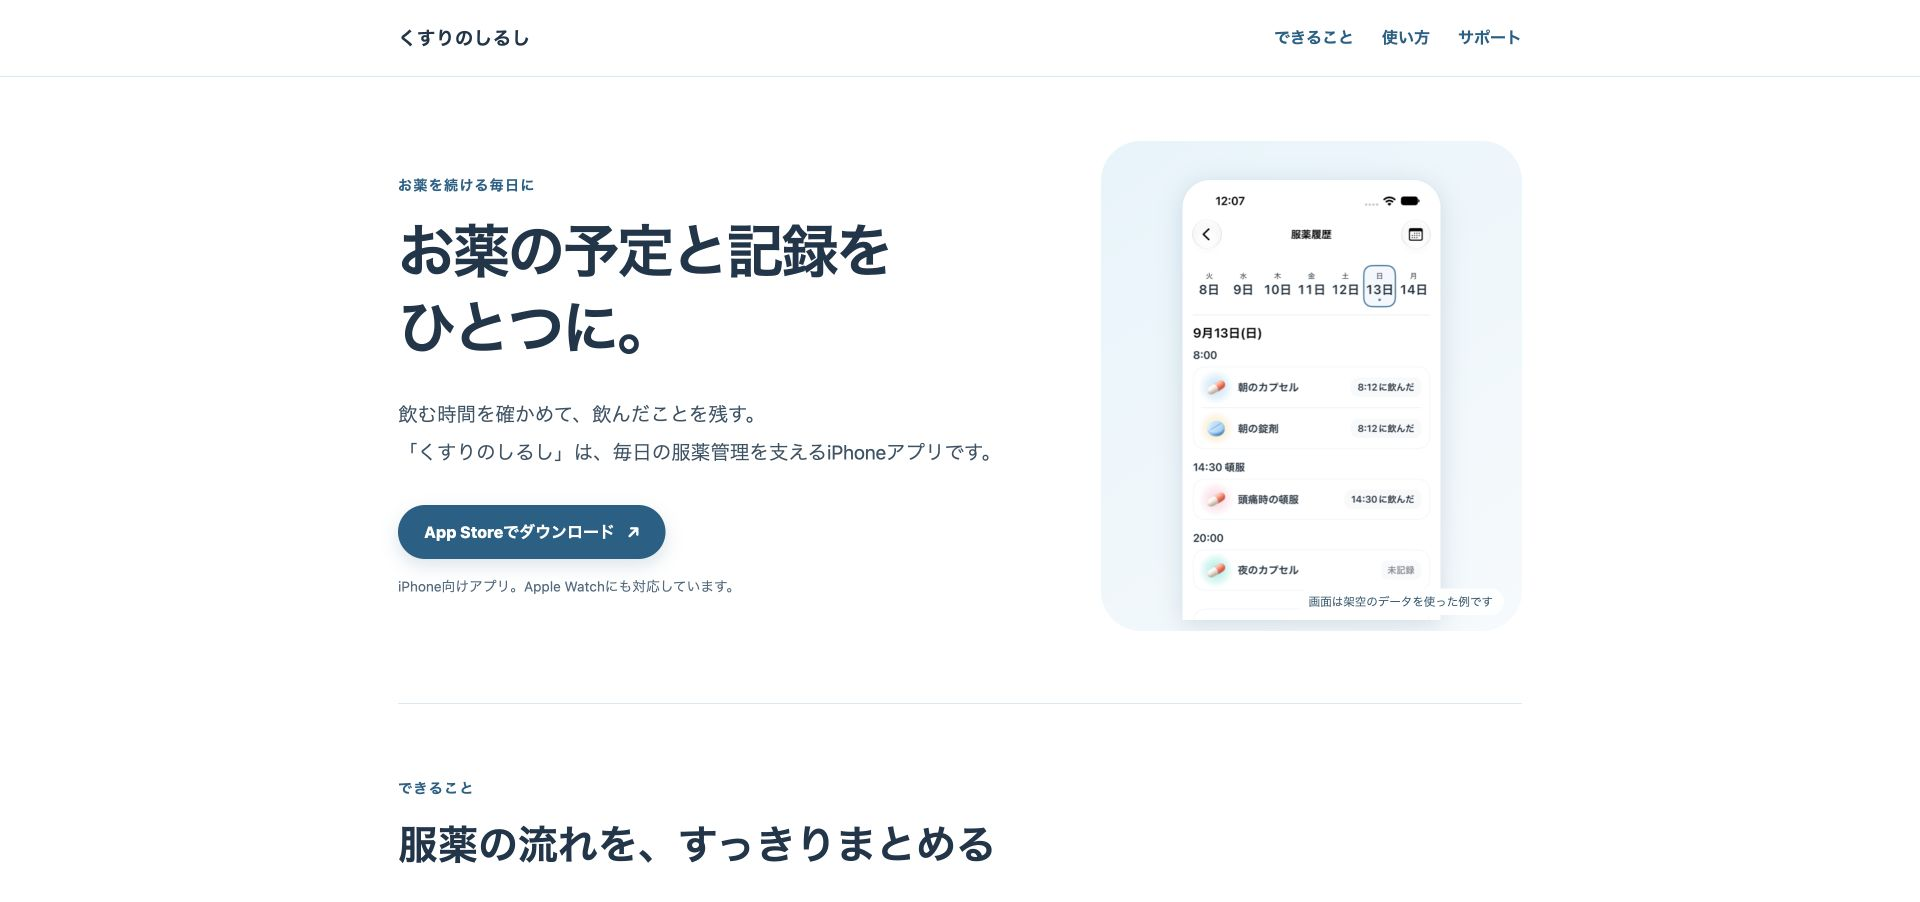
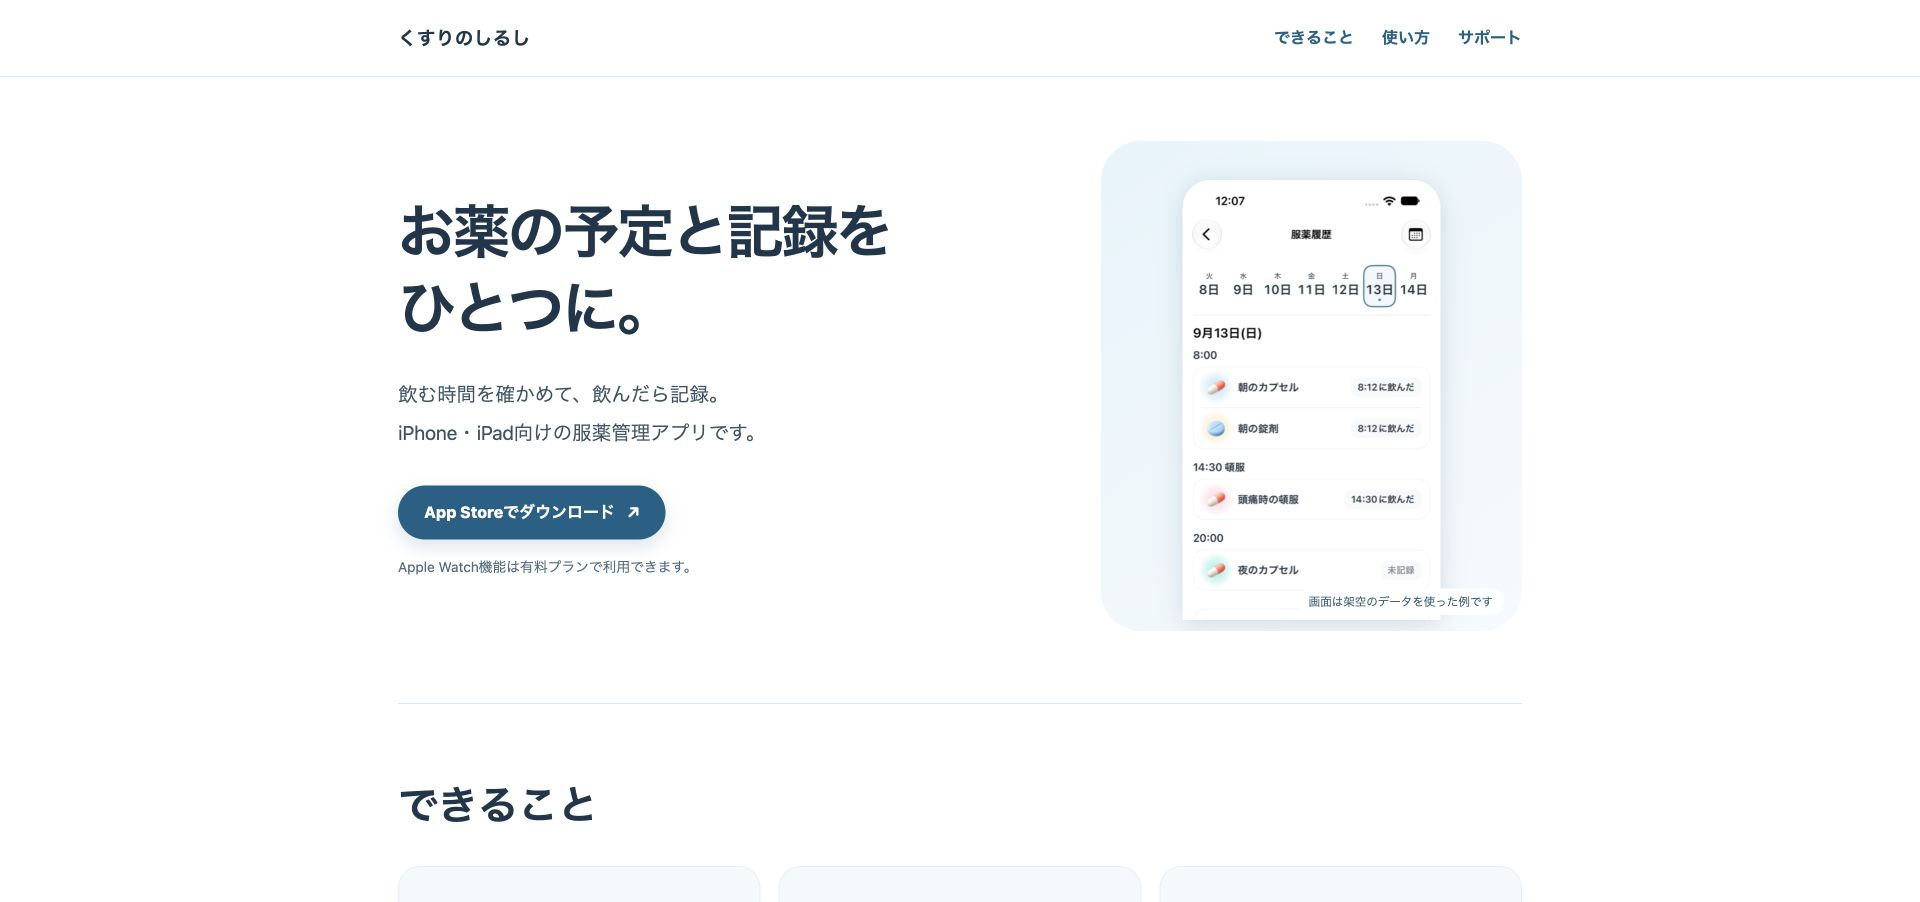
Tighten site copy and clarify registration flow

Changed region(s): [[0.1875, 0.1863, 0.4688, 0.6519], [0.1875, 0.8692, 0.5312, 0.9623]]

diff --git a/qr-medication-registration.html b/qr-medication-registration.html
@@ -15,11 +15,11 @@
   <main id="content" class="article-main">
     <nav class="breadcrumb" aria-label="現在の位置"><a href="index.html">ホーム</a><span aria-hidden="true">/</span><span>QRコードで薬を登録</span></nav>
     <header class="article-header"><p class="eyebrow">使い方ガイド・お薬の登録</p><h1>お薬手帳のQRコードで<br>薬を登録する方法</h1><p class="lead">電子お薬手帳用のQRコードを読み取り、登録するお薬を選んで内容を確認します。読み取っただけでは保存されません。</p></header>
-    <div class="article-note"><strong>用意するもの</strong><p>電子お薬手帳用QRコードを表示できるお薬手帳や書類。通常の商品バーコードには対応していません。読み取りにはiPhoneのカメラを使います。</p></div>
+    <div class="article-note"><strong>用意するもの</strong><p>電子お薬手帳用QRコードを表示できるお薬手帳や書類。通常の商品バーコードには対応していません。読み取りには端末のカメラを使います。</p></div>
     <section class="step" aria-labelledby="step1"><div class="step-copy"><span class="step-label">STEP 1</span><h2 id="step1">お薬の追加からQRを開く</h2><p>アプリの「お薬」から追加を開き、「お薬を追加」画面の「QRコードを読み取る」を選びます。カメラへのアクセスを求められたら許可してください。</p></div><figure class="phone-shot"><img src="assets/qr-entry.png" width="386" height="840" alt="お薬を追加画面で「QRコードを読み取る」を選べる場所" loading="lazy"><figcaption>「お薬手帳のQRコードから入力」欄に入口があります。</figcaption></figure></section>
     <section class="step" aria-labelledby="step2"><div class="step-copy"><span class="step-label">STEP 2</span><h2 id="step2">QRを1つずつ読み取る</h2><p>QRコードをカメラの枠内に1つずつ写します。分割されたQRの場合は、画面の読み取り済み数と残りの数を見ながら、すべて読み取ってください。</p><p>途中でキャンセルすると、読み取り途中の内容は破棄されます。入力済みの薬名やメモは残ります。</p></div><figure class="phone-shot"><img src="assets/qr-split-progress.png" width="386" height="840" alt="分割QRの読み取り画面。読み取り済み数と残りの数を表示" loading="lazy"><figcaption>分割QRは全片が揃ってから次に進みます。</figcaption></figure></section>
     <section class="step" aria-labelledby="step3"><div class="step-copy"><span class="step-label">STEP 3</span><h2 id="step3">薬を選んで内容を確認する</h2><p>候補から登録する薬を選び、薬名とQRに記載された用法などを確認して「反映」を選びます。1種類の場合は薬名やメモを確認・編集できます。複数の場合は次の登録一覧から薬ごとに設定します。</p></div><figure class="phone-shot"><img src="assets/qr-review.png" width="386" height="840" alt="QRを確認画面。2種類の薬を選び、それぞれの用法メモを確かめる" loading="lazy"><figcaption>画像内の薬名は説明用の架空データです。</figcaption></figure></section>
-    <section class="step" aria-labelledby="step4"><div class="step-copy"><span class="step-label">STEP 4</span><h2 id="step4">服用方法を設定して保存する</h2><p>「名前・メモ」「服用方法」「薬の見た目」「確認・登録」の順に進みます。QRの用法から服用時刻や1回量は自動設定されないため、処方内容を見ながら入力してください。最後に内容を確かめて保存します。</p><p>複数の薬を選んだ場合は、各薬の確認画面で「完了」を選んで一覧に戻り、一覧の「○件を登録」でまとめて保存します。</p></div><figure class="phone-shot"><img src="assets/qr-final-review.png" width="386" height="840" alt="QR複数登録の個別確認画面。薬名と服用方法を確認して完了を選べる" loading="lazy"><figcaption>複数登録では「完了」の後、一覧でまとめて保存します。</figcaption></figure></section>
+    <section class="step" aria-labelledby="step4"><div class="step-copy"><span class="step-label">STEP 4</span><h2 id="step4">服用方法を設定して保存する</h2><p>1種類なら「名前・メモ」→「服用方法」→「薬の見た目」→「確認・登録」の順に進み、内容を確認して保存します。</p><p>複数なら登録一覧で薬を1件ずつ開き、同じ順序で「確認」まで進めます。各薬の「完了」で一覧に戻り、最後に一覧の「2件を登録」など件数が表示されたボタンでまとめて保存します。</p><p>QRの用法から服用時刻や1回量は自動設定されません。処方内容を見ながら入力してください。</p></div><figure class="phone-shot"><img src="assets/qr-final-review.png" width="386" height="840" alt="QR複数登録の個別確認画面。薬名と服用方法を確認して完了を選べる" loading="lazy"><figcaption>複数登録では「完了」の後、一覧でまとめて保存します。</figcaption></figure></section>
     <aside class="article-help"><h2>読み取り後に確認したいこと</h2><p>QRの情報は確認と編集を経て反映されます。薬の名前、1回量、飲む時刻、開始日などを処方内容と照らし合わせてください。QRの読み取りだけで登録は完了しません。</p></aside>
     <div class="article-end"><a class="button" href="https://apps.apple.com/jp/app/id6816327784?pt=123104295&amp;ct=official-website&amp;mt=8">App Storeでダウンロード <span aria-hidden="true">↗</span></a><p>ほかの使い方：<a href="medication-record-pdf.html">飲んだ薬の記録を診察用PDFにする方法</a></p><p>お困りの場合は<a href="support.html">サポート</a>をご覧ください。</p></div>
   </main>

diff --git a/index.html b/index.html
@@ -14,12 +14,12 @@
   <header class="site-header"><div class="header-inner"><a class="brand" href="index.html" aria-current="page">くすりのしるし</a><nav aria-label="サイト内ナビゲーション"><a href="#features">できること</a><a href="#guides">使い方</a><a href="support.html">サポート</a></nav></div></header>
   <main id="content" class="wide-main">
     <section class="hero" aria-labelledby="hero-title">
-      <div class="hero-copy"><p class="eyebrow">お薬を続ける毎日に</p><h1 id="hero-title">お薬の予定と記録を<br>ひとつに。</h1><p class="lead">飲む時間を確かめて、飲んだことを残す。<br>「くすりのしるし」は、毎日の服薬管理を支えるiPhoneアプリです。</p><a class="button" href="https://apps.apple.com/jp/app/id6816327784?pt=123104295&amp;ct=official-website&amp;mt=8">App Storeでダウンロード <span aria-hidden="true">↗</span></a><p class="fine-print">iPhone向けアプリ。Apple Watchにも対応しています。</p></div>
+      <div class="hero-copy"><h1 id="hero-title">お薬の予定と記録を<br>ひとつに。</h1><p class="lead">飲む時間を確かめて、飲んだら記録。<br>iPhone・iPad向けの服薬管理アプリです。</p><a class="button" href="https://apps.apple.com/jp/app/id6816327784?pt=123104295&amp;ct=official-website&amp;mt=8">App Storeでダウンロード <span aria-hidden="true">↗</span></a><p class="fine-print">Apple Watch機能は有料プランで利用できます。</p></div>
       <div class="hero-visual"><img src="assets/history.png" width="386" height="840" alt="くすりのしるしの服薬履歴画面。飲んだ時刻と薬ごとの記録を表示" fetchpriority="high"><span class="visual-caption">画面は架空のデータを使った例です</span></div>
     </section>
-    <section id="features" class="section-block" aria-labelledby="features-title"><p class="eyebrow">できること</p><h2 id="features-title">服薬の流れを、すっきりまとめる</h2><div class="feature-grid"><article class="feature-card"><span class="feature-number">01</span><h3>予定を見渡す</h3><p>今日のお薬と飲む時間を確認。飲んだらその場で記録できます。</p></article><article class="feature-card"><span class="feature-number">02</span><h3>お薬を登録する</h3><p>手入力に加え、お薬手帳用QRコードからも薬の情報を取り込めます。</p></article><article class="feature-card"><span class="feature-number">03</span><h3>履歴を共有する</h3><p>飲んだ薬の記録をPDFにまとめ、診察時に共有できます。</p></article></div></section>
-    <section id="guides" class="section-block" aria-labelledby="guides-title"><p class="eyebrow">使い方ガイド</p><h2 id="guides-title">始めたいことから読む</h2><div class="guide-grid"><a class="guide-card" href="qr-medication-registration.html"><span class="guide-type">お薬の登録</span><h3>お薬手帳のQRコードで<br>薬を登録する方法</h3><p>読み取りから内容確認、保存までを画面で説明します。</p><span class="text-link">手順を見る <span aria-hidden="true">→</span></span></a><a class="guide-card" href="medication-record-pdf.html"><span class="guide-type">診察の準備</span><h3>飲んだ薬の記録を<br>診察用PDFにする方法</h3><p>履歴からPDFを作り、共有するまでを説明します。</p><span class="text-link">手順を見る <span aria-hidden="true">→</span></span></a></div></section>
-    <section class="closing-cta"><div><h2>毎日の記録を、今日から。</h2><p>お薬の予定と飲んだ記録を、手元で確認できます。</p></div><a class="button button-light" href="https://apps.apple.com/jp/app/id6816327784?pt=123104295&amp;ct=official-website&amp;mt=8">App Storeでダウンロード <span aria-hidden="true">↗</span></a></section>
+    <section id="features" class="section-block" aria-labelledby="features-title"><h2 id="features-title">できること</h2><div class="feature-grid"><article class="feature-card"><h3>予定を見渡す</h3><p>今日のお薬と飲む時間を確認し、その場で記録できます。</p></article><article class="feature-card"><h3>お薬を登録する</h3><p>手入力に加え、お薬手帳用QRコードからも取り込めます。</p></article><article class="feature-card"><h3>履歴を共有する</h3><p>飲んだ薬の記録を診察用PDFにまとめられます。</p></article></div></section>
+    <section id="guides" class="section-block" aria-labelledby="guides-title"><h2 id="guides-title">使い方ガイド</h2><div class="guide-grid"><a class="guide-card" href="qr-medication-registration.html"><span class="guide-type">お薬の登録</span><h3>お薬手帳のQRコードで<br>薬を登録する方法</h3><p>読み取りから内容確認、保存までを画面で説明します。</p><span class="text-link">手順を見る <span aria-hidden="true">→</span></span></a><a class="guide-card" href="medication-record-pdf.html"><span class="guide-type">診察の準備</span><h3>飲んだ薬の記録を<br>診察用PDFにする方法</h3><p>履歴からPDFを作り、共有するまでを説明します。</p><span class="text-link">手順を見る <span aria-hidden="true">→</span></span></a></div></section>
+    <section class="closing-cta"><h2>くすりのしるしを使う</h2><a class="button button-light" href="https://apps.apple.com/jp/app/id6816327784?pt=123104295&amp;ct=official-website&amp;mt=8">App Storeでダウンロード <span aria-hidden="true">↗</span></a></section>
   </main>
   <footer class="site-footer"><div class="footer-inner"><span>© くすりのしるし</span><nav aria-label="フッターナビゲーション"><a href="support.html">サポート</a><a href="privacy.html">プライバシーポリシー</a></nav></div></footer>
 </body>

diff --git a/medication-record-pdf.html b/medication-record-pdf.html
@@ -17,7 +17,7 @@
     <header class="article-header"><p class="eyebrow">使い方ガイド・診察の準備</p><h1>飲んだ薬の記録を<br>診察用PDFにする方法</h1><p class="lead">服薬履歴から、実際に飲んだ薬をA4のPDFにまとめられます。診察や薬局で記録を見せたいときに使えます。</p></header>
     <section class="step" aria-labelledby="pdf-step1"><div class="step-copy"><span class="step-label">STEP 1</span><h2 id="pdf-step1">服薬履歴を開く</h2><p>アプリで「服薬履歴」を開きます。記録のある薬を1種類だけ共有したい場合は、「表示するお薬」から選べます。すべての薬を含めたい場合は「すべてのお薬」のままにします。</p></div><figure class="phone-shot"><img src="assets/history.png" width="386" height="840" alt="服薬履歴画面。飲んだ記録、薬の絞り込み、PDF共有ボタンを表示" loading="lazy"><figcaption>画面の下部にPDF共有の入口があります。</figcaption></figure></section>
     <section class="step text-only" aria-labelledby="pdf-step2"><div class="step-copy"><span class="step-label">STEP 2</span><h2 id="pdf-step2">「服薬記録をPDFで共有」を選ぶ</h2><p>履歴の下部にある「服薬記録をPDFで共有」を選びます。服用済みの記録がない場合、この操作は選べません。</p><p>PDFの対象は直近365日間です。画面で選んでいる日付を変えても、PDFの対象期間は変わりません。</p></div></section>
-    <section class="step" aria-labelledby="pdf-step3"><div class="step-copy"><span class="step-label">STEP 3</span><h2 id="pdf-step3">PDFを確認して共有する</h2><p>PDFには、実際に飲んだ日時、薬の名前、服用量が日付ごとに並びます。記録メモがあれば薬名の下に入ります。iPhoneの共有画面で保存先や共有先を選んでください。</p><p>予定、飲み忘れ、スキップ、未記録の項目はPDFに入りません。共有前に内容を確認し、渡す相手を選んでください。</p></div><figure class="report-shot"><img src="assets/report.png" width="707" height="1000" alt="服薬記録PDFの出力例。対象期間と、飲んだ日ごとの服用時刻・お薬・服用量を表示" loading="lazy"><figcaption>アプリのPDF描画機能で作成した架空データの例です。</figcaption></figure></section>
+    <section class="step" aria-labelledby="pdf-step3"><div class="step-copy"><span class="step-label">STEP 3</span><h2 id="pdf-step3">PDFを確認して共有する</h2><p>PDFには、実際に飲んだ日時、薬の名前、服用量が日付ごとに並びます。記録メモがあれば薬名の下に入ります。端末の共有画面で保存先や共有先を選んでください。</p><p>予定、飲み忘れ、スキップ、未記録の項目はPDFに入りません。共有前に内容を確認し、渡す相手を選んでください。</p></div><figure class="report-shot"><img src="assets/report.png" width="707" height="1000" alt="服薬記録PDFの出力例。対象期間と、飲んだ日ごとの服用時刻・お薬・服用量を表示" loading="lazy"><figcaption>アプリのPDF描画機能で作成した架空データの例です。</figcaption></figure></section>
     <aside class="article-help"><h2>共有する前に</h2><p>PDFには服薬に関する個人的な情報が含まれます。共有先や保存場所を確認してください。作成や読み込みに失敗した場合はアプリに案内が表示され、共有画面は開きません。</p></aside>
     <div class="article-end"><a class="button" href="https://apps.apple.com/jp/app/id6816327784?pt=123104295&amp;ct=official-website&amp;mt=8">App Storeでダウンロード <span aria-hidden="true">↗</span></a><p>ほかの使い方：<a href="qr-medication-registration.html">お薬手帳のQRコードで薬を登録する方法</a></p><p>お困りの場合は<a href="support.html">サポート</a>をご覧ください。</p></div>
   </main>

diff --git a/style.css b/style.css
@@ -32,8 +32,7 @@ a:focus-visible{outline:3px solid #f0ac55;outline-offset:4px;border-radius:4px}
 .section-block h2{font-size:clamp(1.8rem,3.3vw,2.5rem);line-height:1.45;margin:0 0 32px}
 .feature-grid{display:grid;grid-template-columns:repeat(3,1fr);gap:18px}
 .feature-card{padding:30px 28px;border-radius:22px;background:var(--surface);border:1px solid #e6eff5}
-.feature-number{font-weight:800;color:var(--blue);font-size:.88rem}
-.feature-card h3{font-size:1.35rem;margin:15px 0 8px}
+.feature-card h3{font-size:1.35rem;margin:0 0 8px}
 .feature-card p,.guide-card p{color:var(--muted);margin:0}
 .guide-grid{display:grid;grid-template-columns:repeat(2,1fr);gap:20px}
 .guide-card{display:block;padding:32px;border:1px solid var(--line);border-radius:22px;color:inherit;text-decoration:none;box-shadow:0 8px 28px #234c6910;transition:transform .2s,box-shadow .2s}
@@ -42,8 +41,7 @@ a:focus-visible{outline:3px solid #f0ac55;outline-offset:4px;border-radius:4px}
 .guide-card h3{font-size:1.45rem;line-height:1.5;margin:10px 0}
 .text-link{display:inline-block;color:var(--blue-dark);font-weight:800;margin-top:25px}
 .closing-cta{display:flex;align-items:center;justify-content:space-between;gap:25px;padding:42px 48px;border-radius:26px;background:#285f86;color:#fff}
-.closing-cta h2{margin:0 0 4px;font-size:1.7rem}
-.closing-cta p{margin:0}
+.closing-cta h2{margin:0;font-size:1.7rem}
 .button-light{background:#fff;color:#285f86;box-shadow:none;white-space:nowrap}
 .button-light:hover{background:#edf7fc}
 .site-footer{border-top:1px solid var(--line);color:var(--muted);font-size:.88rem}

diff --git a/support.html b/support.html
@@ -15,7 +15,7 @@
     <h1>サポート</h1>
     <p>アプリの使い方、購入・復元、動作の問題については、以下のメールアドレスへお問い合わせください。</p>
     <p class="card"><a href="mailto:eclat.du.dev@gmail.com">eclat.du.dev@gmail.com</a></p>
-    <p>状況を確認しやすくするため、アプリのバージョン、iPhone・Apple Watch の機種と OS のバージョン、操作手順、表示されたエラーをお知らせください。薬の名前、服薬履歴、健康情報、購入時の決済情報は送らないでください。</p>
+    <p>状況を確認しやすくするため、アプリのバージョン、iPhone・iPad・Apple Watch の機種と OS のバージョン、操作手順、表示されたエラーをお知らせください。薬の名前、服薬履歴、健康情報、購入時の決済情報は送らないでください。</p>
     <h2>購入したプランが反映されない場合</h2>
     <p>アプリの「設定」→「有料プラン」から「購入履歴を復元」をお試しください。サブスクリプションの状態は Apple の<a href="https://apps.apple.com/account/subscriptions">管理ページ</a>でも確認できます。</p>
     <h2>Apple Health の連携を確認する場合</h2>

diff --git a/qa/README.md b/qa/README.md
@@ -14,3 +14,5 @@
 | QR登録ガイド・デスクトップ | PDF共有ガイド・モバイル |
 | --- | --- |
 | ![QR登録ガイド](qr-guide-desktop.png) | ![PDF共有ガイド](pdf-guide-mobile.png) |
+
+複数薬の登録順序は [QRガイド・STEP 4 のモバイル表示](qr-guide-step4-mobile.png) でも確認しました。
